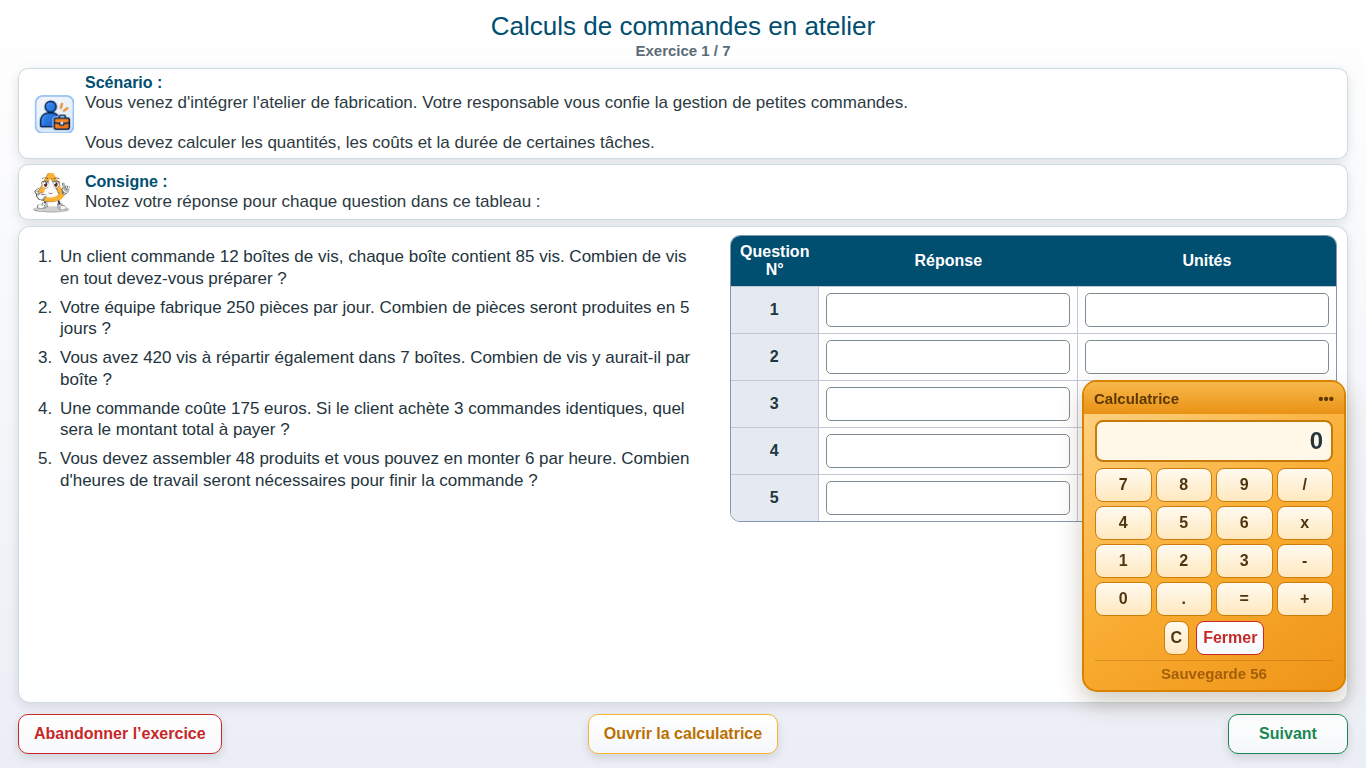
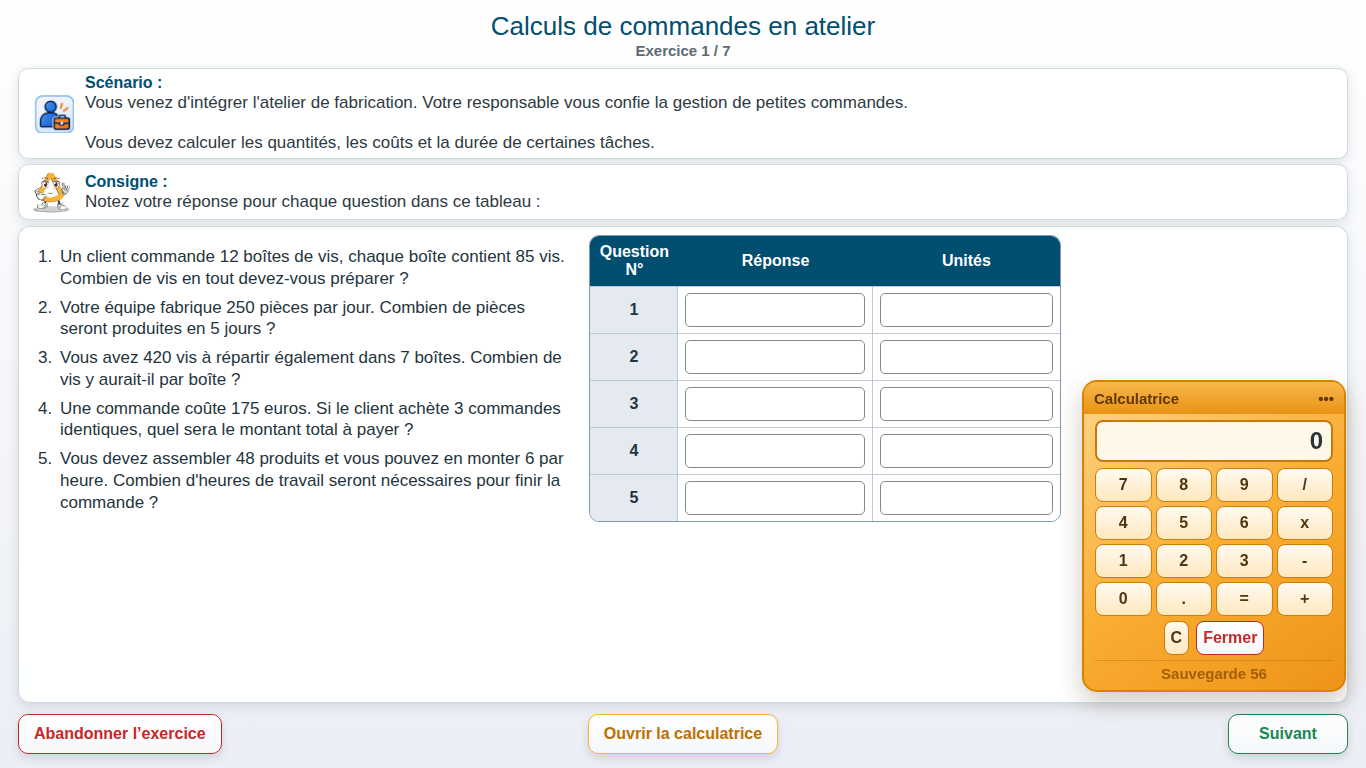
Generate and render KALONÉO factory pages

diff --git a/seb-evalpro/source/maquette-page1-kaloneo.html b/seb-evalpro/source/maquette-page1-kaloneo.html
@@ -697,6 +697,15 @@ button,input{font:inherit}
   font-weight:700;
 }
 
+
+body.k-test-calculator-open .k-test-workspace{
+  padding-right:286px;
+}
+body.k-test-calculator-open .k-test-split{
+  grid-template-columns:minmax(0,1fr) minmax(360px,.86fr);
+  gap:12px;
+}
+
 </style>
 </head>
 <body>
@@ -1327,8 +1336,15 @@ window.KALONEO_PAGE_DEFINITION = Object.freeze({
     c.calc.classList.add('k-floating-calculator');
     page.append(c.calc);
     const api={
-      open(){ c.calc.classList.add('open'); },
-      close(){ c.calc.classList.remove('open'); c.reset(); }
+      open(){
+        document.body.classList.add('k-test-calculator-open');
+        c.calc.classList.add('open');
+      },
+      close(){
+        c.calc.classList.remove('open');
+        document.body.classList.remove('k-test-calculator-open');
+        c.reset();
+      }
     };
     c.close.onclick=api.close;
     state.calculators.set('test-calculator',api);

diff --git a/seb-evalpro/source/maquette-page2-kaloneo.html b/seb-evalpro/source/maquette-page2-kaloneo.html
@@ -697,6 +697,15 @@ button,input{font:inherit}
   font-weight:700;
 }
 
+
+body.k-test-calculator-open .k-test-workspace{
+  padding-right:286px;
+}
+body.k-test-calculator-open .k-test-split{
+  grid-template-columns:minmax(0,1fr) minmax(360px,.86fr);
+  gap:12px;
+}
+
 </style>
 </head>
 <body>
@@ -1285,8 +1294,15 @@ window.KALONEO_PAGE_DEFINITION = Object.freeze({
     c.calc.classList.add('k-floating-calculator');
     page.append(c.calc);
     const api={
-      open(){ c.calc.classList.add('open'); },
-      close(){ c.calc.classList.remove('open'); c.reset(); }
+      open(){
+        document.body.classList.add('k-test-calculator-open');
+        c.calc.classList.add('open');
+      },
+      close(){
+        c.calc.classList.remove('open');
+        document.body.classList.remove('k-test-calculator-open');
+        c.reset();
+      }
     };
     c.close.onclick=api.close;
     state.calculators.set('test-calculator',api);

diff --git a/seb-evalpro/source/maquette-test1-kaloneo.html b/seb-evalpro/source/maquette-test1-kaloneo.html
@@ -697,6 +697,15 @@ button,input{font:inherit}
   font-weight:700;
 }
 
+
+body.k-test-calculator-open .k-test-workspace{
+  padding-right:286px;
+}
+body.k-test-calculator-open .k-test-split{
+  grid-template-columns:minmax(0,1fr) minmax(360px,.86fr);
+  gap:12px;
+}
+
 </style>
 </head>
 <body>
@@ -1328,8 +1337,15 @@ window.KALONEO_PAGE_DEFINITION = Object.freeze({
     c.calc.classList.add('k-floating-calculator');
     page.append(c.calc);
     const api={
-      open(){ c.calc.classList.add('open'); },
-      close(){ c.calc.classList.remove('open'); c.reset(); }
+      open(){
+        document.body.classList.add('k-test-calculator-open');
+        c.calc.classList.add('open');
+      },
+      close(){
+        c.calc.classList.remove('open');
+        document.body.classList.remove('k-test-calculator-open');
+        c.reset();
+      }
     };
     c.close.onclick=api.close;
     state.calculators.set('test-calculator',api);
